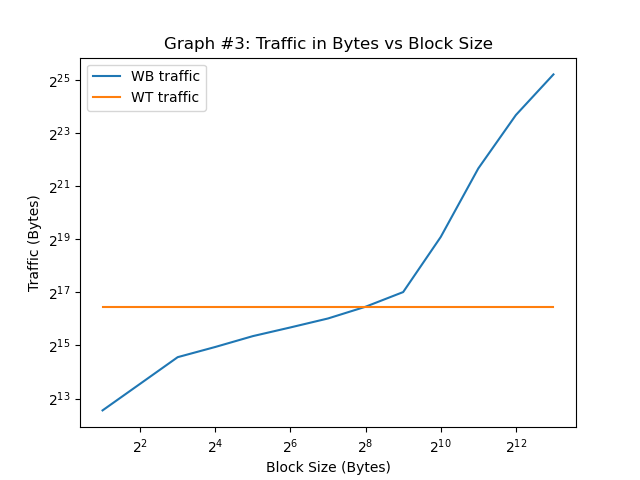
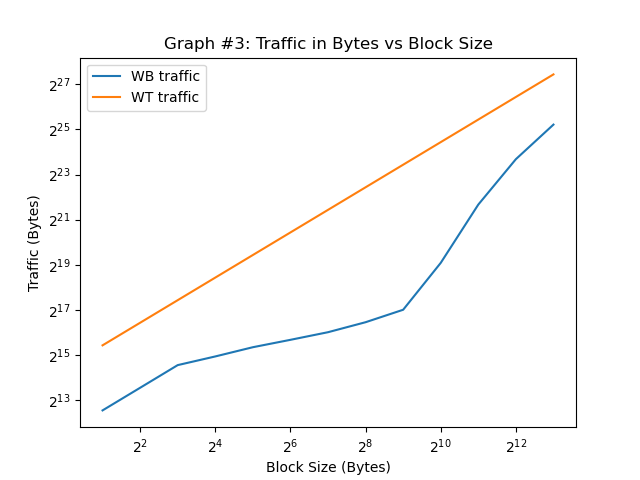
proposed vi change

diff --git a/cache.c b/cache.c
@@ -14,19 +14,16 @@ cache_t *make_cache(int capacity, int block_size, int assoc, enum protocol_t pro
   cache->block_size = block_size;  // in Bytes
   cache->assoc = assoc;            // 1, 2, 3... etc.
 
-  // FIX THIS CODE!
-  // first, correctly set these 5 variables. THEY ARE ALL WRONG
-  // note: you may find math.h's log2 function useful
-  cache->n_cache_line = capacity / block_size;
-  cache->n_set = capacity / (block_size * assoc);
-  cache->n_offset_bit = log2(block_size);
-  cache->n_index_bit = log2(cache->n_set);
-  cache->n_tag_bit = 32 - cache->n_index_bit - cache->n_offset_bit;
+  // cache parameters
+  cache->n_cache_line = capacity / block_size; // number of sets is capacity / block size
+  cache->n_set = capacity / (block_size * assoc); // number of sets is capacity / (block size * associativity)
+  cache->n_offset_bit = log2(block_size); // log2 bits required to index the block size
+  cache->n_index_bit = log2(cache->n_set); // log2 bits required to index the number of sets
+  cache->n_tag_bit = 32 - cache->n_index_bit - cache->n_offset_bit; // remaining bits are tag
 
   // next create the cache lines and the array of LRU bits
   // - malloc an array with n_rows
   // - for each element in the array, malloc another array with n_col
-  // FIX THIS CODE!
 
   // allocate lines: number of lines / sets times the size of the container for each line
   // the container is a pointer to cache_line_t, as each line points to an array representing the 'ways'
@@ -47,7 +44,6 @@ cache_t *make_cache(int capacity, int block_size, int assoc, enum protocol_t pro
 
   // initializes cache tags to 0, dirty bits to false,
   // state to INVALID, and LRU bits to 0
-  // FIX THIS CODE!
 
   // for every set,
   for (int i = 0; i < cache->n_set; i++) {
@@ -153,6 +149,7 @@ bool handle_no_coherence_protocol(cache_t *cache, unsigned long addr, enum actio
     if (action == STORE) {
       line->dirty_f = true;
     }
+    // do nothing on LD_MISS or ST_MISS
   } else {
     // Cache miss
 
@@ -217,18 +214,17 @@ bool handle_vi_protocol(cache_t *cache, unsigned long addr, enum action_t action
 
     // On load or store from active core,
     // Update the LRU way for the current cache index
-    if (action == LOAD) {
-      cache->lru_way[index] = (way + 1) % cache->assoc;
-    } else if (action == STORE) {
-      line->dirty_f = true; // on store, additionally update dirty bit
-      cache->lru_way[index] = (way + 1) % cache->assoc;
+    if (action == LOAD || action == STORE) {
+      if (action == STORE){
+        line->dirty_f = true; // on store, additionally update dirty bit
+      }
+      cache->lru_way[index] = (way + 1) % cache->assoc; // update LRU
     } else {
       // LD_MISS or ST_MISS
-      //! potentially not required?
       bool dirty = line->dirty_f; // check if dirty
 
       line->state = INVALID; // invalidate 
-      hit = false; // set hit to false
+      hit = false; // also set hit to false
 
       // if the line was dirty,
       if (dirty) {
@@ -238,30 +234,28 @@ bool handle_vi_protocol(cache_t *cache, unsigned long addr, enum action_t action
     }
   } else {
     // Cache miss
-    writeback_f = line->dirty_f; // if dirty, requires writeback
 
     // if active core operation, bring data into cache and set LRU way.
-    if (action == LOAD) {
+    if (action == LOAD || action == STORE) {
+      writeback_f = line->dirty_f; // if dirty, requires writeback
+      // set valid state and tag
       line->state = VALID;
       line->tag = tag;
-      cache->lru_way[index] = (way + 1) % cache->assoc;
-    } else if (action == STORE) {
-      line->state = VALID;
-      line->tag = tag;
-      line->dirty_f = true; // additionally set dirty: brought into cache and written
-      cache->lru_way[index] = (way + 1) % cache->assoc;
-    } else {
+      if (action == STORE){
+        line->dirty_f = true; // additionally set dirty: brought into cache and written
+      }
+      cache->lru_way[index] = (way + 1) % cache->assoc; // update LRU
+    }/*  else {
       // otherwise, LD_MISS or ST_MISS
-      // check if dirty
-      bool dirty = line->dirty_f;
-      line->state = INVALID; // if not dirty, just invalidate
+      bool dirty = line->dirty_f; // check if dirty
+
+      line->state = INVALID; // invalidate
       if (dirty){
-        // otherwise, requires writeback
-        // Writeback
+        // otherwise, requires writeback: set flag for stats, and reset line's dirty state
         writeback_f = true;
         line->dirty_f = false;
       }
-    }
+    } */
   }
   // then, update the stats
   update_stats(cache->stats, hit, writeback_f, false, action);
@@ -306,26 +300,26 @@ bool handle_msi_protocol(cache_t *cache, unsigned long addr, enum action_t actio
       // transition on load for M and S keeps the state the same, so just update LRU way
       cache->lru_way[index] = (way + 1) % cache->assoc; // update LRU way
     } else if (action == STORE) {
-      // only relevant transition is from S to M
+      // only relevant transition is from S to M: M stays M
       if (line->state == SHARED) {
         // if line was shared, upgrade miss
         line->state = MODIFIED; // next state transition
-        hit = false; //! necessary?
+        hit = false; // necessary for the way that we handle stats
         upgrade_miss = true;
       }
       cache->lru_way[index] = (way + 1) % cache->assoc; // update LRU way
     } else if (action == ST_MISS) {
-      // Cache miss: M and S both transition to invalid
+      // Store miss: M and S both transition to invalid
       bool dirty = (line->state == MODIFIED); // if modified, was dirty
       line->state = INVALID;
       if (dirty) {
-        writeback_f = true;
+        writeback_f = true; // if dirty, requires writeback
       }
     } else if (action == LD_MISS) {
-      // Cache miss
+      // Load miss: if on M, transition to S
       bool dirty = (line->state == MODIFIED); // if modified, was dirty
       if (dirty) {
-        writeback_f = true;
+        writeback_f = true; // if dirty, requires writeback
         line->state = SHARED; // only M goes to S on ldmiss, S stays in S
       }
     }

diff --git a/cache_stats.c b/cache_stats.c
@@ -39,27 +39,39 @@ cache_stats_t *make_cache_stats() {
  * also need to update total_snoop_hits, total_bus_snoops
 */
 void update_stats(cache_stats_t *stats, bool hit_f, bool writeback_f, bool upgrade_miss_f, enum action_t action) {
-  
-  if (action == STORE)
-    stats->n_stores++;
-
-  
-  if (upgrade_miss_f)
-    stats->n_upgrade_miss++;
-  
   if (action == STORE || action == LOAD){
-    //! fixes access counts and hit/miss counts during multicore
+    // only loads and stores from the current core should be counted as accesses
     stats->n_cpu_accesses++;
-    if (hit_f)
+
+    // if a store, increment the relevant stat
+    if (action == STORE)
+      stats->n_stores++;
+
+    // if got a hit from active core, increment the relevant stat
+    if (hit_f){
       stats->n_hits++;
-    if (writeback_f)
-    stats->n_writebacks++;
+    }
+    
+    // if needed to writeback, increment the relevant stat
+    if (writeback_f){
+      stats->n_writebacks++;
+    }
+
+    // if encountered an upgrade miss, increment the relevant stat (MSI)
+    // happens only to stores
+    if (upgrade_miss_f){
+      stats->n_upgrade_miss++;
+    }
   }
 
   if (action == ST_MISS || action == LD_MISS){
+    // if a snoop, increment relevant stat
     stats->n_bus_snoops++;
-    if (hit_f)
+
+    // if the snoop hit, increment the relevant stat
+    if (hit_f){
       stats->n_snoop_hits++;
+    }
   }
     
 }
@@ -69,14 +81,13 @@ void calculate_stat_rates(cache_stats_t *stats, int block_size) {
 
   stats->hit_rate = stats->n_hits / (double)stats->n_cpu_accesses;
 
-  // FIX THIS CODE!
-  // you will need to modify this function in order to properly
-  // calculate wb and wt data
+  // miss count: number of accesses minus number of hits and upgrade misses: upgrade misses shouldn't generate traffic
   unsigned int n_misses = stats->n_cpu_accesses - stats->n_hits - stats->n_upgrade_miss;
-  stats->B_bus_to_cache = n_misses * block_size;
-  stats->B_cache_to_bus_wb = stats->n_writebacks * block_size;
-  stats->B_cache_to_bus_wt = stats->n_stores * 4;
-  stats->B_total_traffic_wb = stats->B_bus_to_cache + stats->B_cache_to_bus_wb;
-  stats->B_total_traffic_wt = stats->B_bus_to_cache + stats->B_cache_to_bus_wt;
+
+  stats->B_bus_to_cache = n_misses * block_size; // traffic into cache: miss count times block size
+  stats->B_cache_to_bus_wb = stats->n_writebacks * block_size; // directly multiply writeback count by bus size
+  stats->B_cache_to_bus_wt = stats->n_stores * 4; // assume that writethroughs always just write the current word back
+  stats->B_total_traffic_wb = stats->B_bus_to_cache + stats->B_cache_to_bus_wb; // total writeback traffic is bus->cache plus writeback traffic
+  stats->B_total_traffic_wt = stats->B_bus_to_cache + stats->B_cache_to_bus_wt; // total writethrough traffic is bus to cache plus writethrough traffic
 
 }
